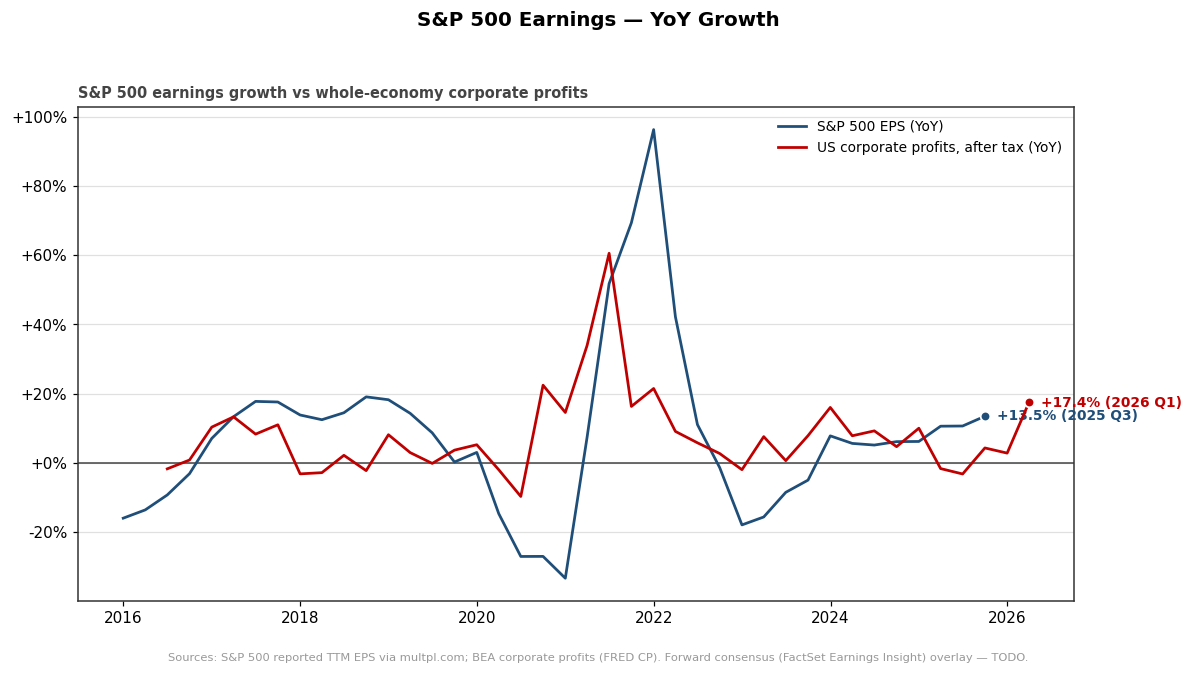
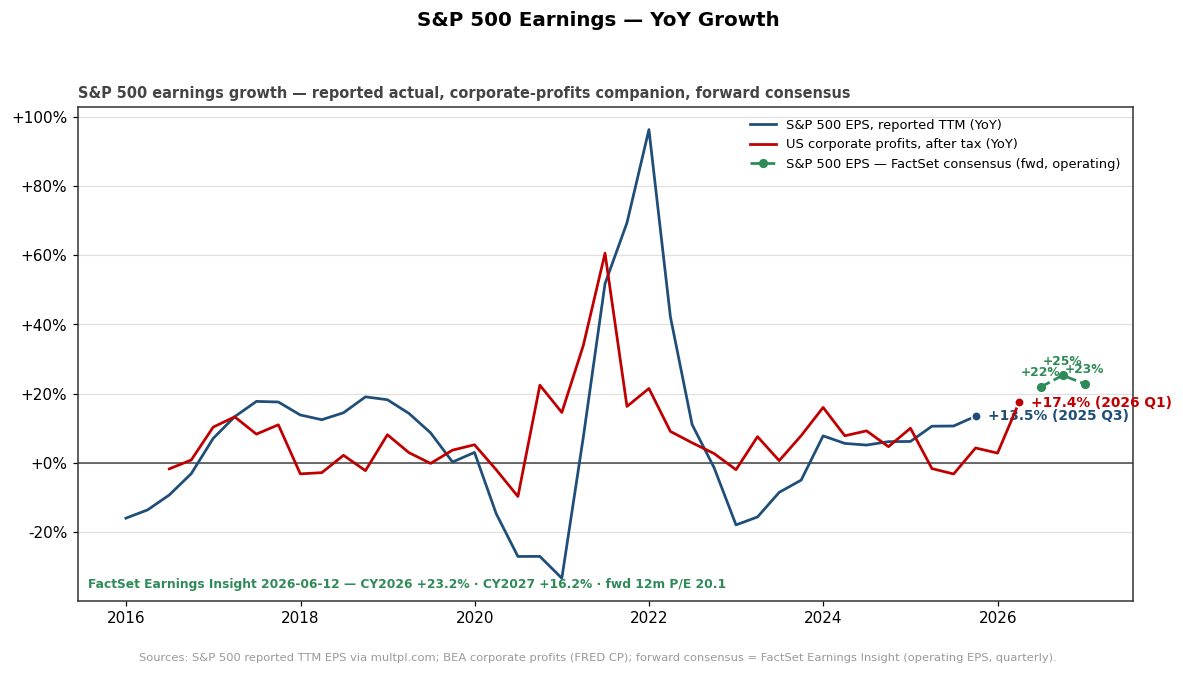
#7 forward overlay: FactSet Earnings Insight consensus on the S&P 500 chart
Completes the deferred forward half of the S&P 500 earnings chart. New
market/factset_forward.py fetches FactSet's public weekly Earnings Insight PDF
(date-patterned URL, tries recent Fridays + the occasional 'A' suffix), parses
the forward (year-over-year) EPS-growth estimates — the in-progress quarter,
the next two quarters, and the CY 2026/2027 figures — plus the forward 12-month
P/E, and caches the result (graceful fallback so a later fetch failure never
blanks the overlay).

The S&P 500 earnings chart now plots the FactSet forward consensus as a distinct
dashed quarterly series (not joined to the reported-TTM actual — different
basis) with a caption carrying CY2026 / CY2027 growth + the forward P/E and the
report date. Verified live on the 2026-06-12 report (Q2 +21.9 / Q3 +25.3 /
Q4 +22.8; CY2026 +23.2; CY2027 +16.2; fwd P/E 20.1).

+6 tests (parser vs FactSet's verbatim phrasings, Friday-URL logic, quarter→ts);
full suite 355 green.

diff --git a/market/factset_forward.py b/market/factset_forward.py
@@ -1,0 +1,140 @@
+"""FactSet Earnings Insight — forward S&P 500 EPS-growth consensus.
+
+FactSet publishes *Earnings Insight* weekly (Fridays) as a **public** PDF at a
+date-patterned URL. This fetches the most recent report, extracts the forward
+(year-over-year) EPS-growth estimates — the in-progress quarter, the next two
+quarters, and the CY estimates — plus the forward 12-month P/E, and caches the
+parsed result so the S&P 500 earnings chart always has a forward overlay even
+if a later fetch fails (graceful fallback to the mirror).
+
+Note the methodology: the chart's *actual* line is S&P 500 reported TTM EPS
+(multpl.com); FactSet's *forward* is bottom-up operating-EPS consensus by
+quarter — a difference the chart caption flags.
+
+(The same report also lands as a weekly email, Insight@factset.com →
+research@jasonpeterson.nyc, but the public PDF avoids needing an attachment
+download and is what the scheduled build uses.)
+"""
+from __future__ import annotations
+
+import io
+import json
+import re
+from datetime import date, timedelta
+from pathlib import Path
+
+import pandas as pd
+import requests
+
+_MIRROR = Path(__file__).parent / "data"
+_CACHE = _MIRROR / "latest" / "factset_forward.json"
+_BASE = (
+    "https://advantage.factset.com/hubfs/Website/Resources%20Section/"
+    "Research%20Desk/Earnings%20Insight/EarningsInsight_{name}.pdf"
+)
+_UA = {"User-Agent": "Mozilla/5.0 (macro_monitor research; jroypeterson@gmail.com)"}
+
+# FactSet's phrasings (stable across recent reports):
+#   "For Q2 2026, the estimated (year-over-year) earnings growth rate for the S&P 500 is 21.9%."
+#   "For Q3 2026 and Q4 2026, analysts are calling for earnings growth rates of 25.3% and 22.8%."
+#   "For CY 2026, analysts are predicting (year-over-year) earnings growth of 23.2%."
+#   "The forward 12-month P/E ratio is 20.1 ..."
+_Q = re.compile(
+    r"For (Q[1-4] 20\d\d), the estimated \(year-over-year\) earnings growth "
+    r"rate for the S&P 500 is (-?[\d.]+)%", re.I)
+_QQ = re.compile(
+    r"For (Q[1-4] 20\d\d) and (Q[1-4] 20\d\d), analysts are calling for "
+    r"earnings growth rates of (-?[\d.]+)% and (-?[\d.]+)%", re.I)
+_CY = re.compile(
+    r"For (CY 20\d\d), analysts are (?:predicting|projecting)"
+    r"(?: \(year-over-year\))? earnings growth of (-?[\d.]+)%", re.I)
+_PE = re.compile(r"forward 12-month P/E ratio is ([\d.]+)", re.I)
+
+
+def recent_fridays(today: date, n: int = 6) -> list[date]:
+    """Most recent Friday on/before `today`, then weekly back (FactSet publishes Fri)."""
+    friday = today - timedelta(days=(today.weekday() - 4) % 7)
+    return [friday - timedelta(weeks=i) for i in range(n)]
+
+
+def _url(d: date, suffix: str = "") -> str:
+    # Some weeks carry a trailing 'A' before .pdf (e.g. EarningsInsight_041026A.pdf).
+    return _BASE.format(name=d.strftime("%m%d%y") + suffix)
+
+
+def fetch_pdf(today: date | None = None) -> tuple[date, bytes]:
+    """Return (report_date, pdf_bytes) for the most recent available report."""
+    today = today or date.today()
+    for d in recent_fridays(today):
+        for suffix in ("", "A"):
+            try:
+                r = requests.get(_url(d, suffix), headers=_UA, timeout=30)
+            except requests.RequestException:
+                continue
+            if r.status_code == 200 and r.content[:4] == b"%PDF":
+                return d, r.content
+    raise RuntimeError("no recent FactSet Earnings Insight PDF found")
+
+
+def parse_forward_text(text: str) -> dict:
+    """Extract {quarters: {'Q2 2026': 21.9, ...}, cy: {'2026': 23.2, ...},
+    forward_pe: 20.1} from the report text. Raises if nothing parses (so a
+    silent format change surfaces instead of writing an empty cache)."""
+    text = re.sub(r"\s+", " ", text)
+    quarters: dict[str, float] = {}
+    for per, val in _Q.findall(text):
+        quarters[per] = float(val)
+    for p1, p2, v1, v2 in _QQ.findall(text):
+        quarters.setdefault(p1, float(v1))
+        quarters.setdefault(p2, float(v2))
+    cy = {per.split()[1]: float(val) for per, val in _CY.findall(text)}
+    pe = _PE.search(text)
+    if not quarters and not cy:
+        raise ValueError("FactSet forward parse found no growth figures — format may have changed")
+    return {"quarters": quarters, "cy": cy, "forward_pe": float(pe.group(1)) if pe else None}
+
+
+def parse_forward(pdf_bytes: bytes) -> dict:
+    """Extract the forward consensus from a FactSet Earnings Insight PDF."""
+    import pdfplumber
+
+    with pdfplumber.open(io.BytesIO(pdf_bytes)) as doc:
+        text = " ".join((p.extract_text() or "") for p in doc.pages)
+    return parse_forward_text(text)
+
+
+def _save(parsed: dict, report_date: date, mirror: Path = _MIRROR) -> None:
+    (mirror / "latest").mkdir(parents=True, exist_ok=True)
+    payload = {**parsed, "report_date": report_date.isoformat()}
+    _CACHE.write_text(json.dumps(payload, indent=2), encoding="utf-8")
+
+
+def load_forward(prefer_live: bool = True, mirror: Path = _MIRROR) -> dict | None:
+    """Forward consensus dict (with report_date), or None if unavailable.
+
+    Live fetch+parse → cache → mirror. Returns None (not raises) when there's no
+    data at all, so the chart can simply skip the overlay rather than fail.
+    """
+    if prefer_live:
+        try:
+            d, pdf = fetch_pdf()
+            parsed = parse_forward(pdf)
+            _save(parsed, d, mirror)
+            return {**parsed, "report_date": d.isoformat()}
+        except Exception as exc:  # noqa: BLE001
+            print(f"[WARN] FactSet forward fetch/parse failed ({exc}); falling back to mirror")
+    if _CACHE.exists():
+        return json.loads(_CACHE.read_text(encoding="utf-8"))
+    return None
+
+
+def quarter_to_ts(qlabel: str) -> pd.Timestamp:
+    """'Q2 2026' -> quarter-end Timestamp (2026-06-30)."""
+    q, y = qlabel.split()
+    return pd.Period(f"{y}Q{int(q[1])}", freq="Q").to_timestamp(how="end").normalize()
+
+
+def forward_quarterly_series(parsed: dict) -> pd.Series:
+    """The forward quarterly YoY% estimates as a dated Series (quarter-end index)."""
+    items = {quarter_to_ts(k): v for k, v in parsed.get("quarters", {}).items()}
+    return pd.Series(items, dtype=float).sort_index()

diff --git a/market/growth_charts.py b/market/growth_charts.py
@@ -22,7 +22,10 @@ from matplotlib.ticker import MaxNLocator  # noqa: E402
 
 from ..charts.style import COLOR_PRIMARY, COLOR_SECONDARY, DEFAULT_DPI, DEFAULT_FIGSIZE  # noqa: E402
 from ..collectors.fred import FREDClient  # noqa: E402
+from . import factset_forward as FF  # noqa: E402
 from . import macro_growth as G  # noqa: E402
+
+_FWD = "#2E8B57"  # forward-consensus green
 
 _OUT = Path(__file__).parent.parent / "readable" / "market"
 _TRAILING_QUARTERS = 12  # JP #31: trailing 3 years, quarterly
@@ -70,11 +73,13 @@ def render_growth_bar(
 
 def render_sp500_earnings(
     eps_yoy: pd.Series, profits_yoy: pd.Series, out: Path, years: int = 10,
+    forward: dict | None = None,
 ) -> Path:
-    """S&P 500 EPS YoY + whole-economy corporate-profits YoY, last `years`."""
+    """S&P 500 EPS YoY + whole-economy corporate-profits YoY (last `years`),
+    plus the FactSet forward-consensus quarterly EPS-growth overlay if provided."""
     fig, ax = plt.subplots(figsize=DEFAULT_FIGSIZE, dpi=DEFAULT_DPI)
     for s, lab, color in (
-        (eps_yoy, "S&P 500 EPS (YoY)", COLOR_PRIMARY),
+        (eps_yoy, "S&P 500 EPS, reported TTM (YoY)", COLOR_PRIMARY),
         (profits_yoy, "US corporate profits, after tax (YoY)", COLOR_SECONDARY),
     ):
         s = s.dropna().iloc[-years * 4:]
@@ -85,15 +90,42 @@ def render_sp500_earnings(
         ax.annotate(f"{s.iloc[-1]:+.1f}% ({_q_label(last)})",
                     (last, s.iloc[-1]), xytext=(8, 0), textcoords="offset points",
                     fontsize=9, color=color, weight="bold", va="center")
+
+    # Forward consensus overlay (FactSet Earnings Insight). Plotted as a distinct
+    # dashed series — it's bottom-up *operating*-EPS consensus by quarter, a
+    # different basis than the reported-TTM actual, so it isn't joined to it.
+    if forward:
+        fwd = FF.forward_quarterly_series(forward)
+        if not fwd.empty:
+            ax.plot(fwd.index, fwd.values, color=_FWD, lw=1.8, ls="--", marker="o",
+                    ms=5, zorder=4, label="S&P 500 EPS — FactSet consensus (fwd, operating)")
+            for ts, v in fwd.items():
+                ax.annotate(f"{v:+.0f}%", (ts, v), textcoords="offset points",
+                            xytext=(0, 7), ha="center", fontsize=8, color=_FWD, weight="bold")
+            cy = forward.get("cy", {})
+            pe = forward.get("forward_pe")
+            bits = []
+            if cy.get("2026") is not None:
+                bits.append(f"CY2026 {cy['2026']:+.1f}%")
+            if cy.get("2027") is not None:
+                bits.append(f"CY2027 {cy['2027']:+.1f}%")
+            if pe:
+                bits.append(f"fwd 12m P/E {pe:.1f}")
+            cap = "FactSet Earnings Insight " + forward.get("report_date", "")
+            if bits:
+                cap += " — " + " · ".join(bits)
+            ax.text(0.01, 0.02, cap, transform=ax.transAxes, fontsize=8,
+                    color=_FWD, va="bottom", weight="bold")
+
     ax.axhline(0, color="#444444", lw=1, zorder=2)
     ax.yaxis.set_major_formatter(plt.FuncFormatter(lambda v, _: f"{v:+.0f}%"))
-    ax.set_title("S&P 500 earnings growth vs whole-economy corporate profits",
+    ax.set_title("S&P 500 earnings growth — reported actual, corporate-profits companion, forward consensus",
                  fontsize=9.5, color="#444444", loc="left")
     fig.suptitle("S&P 500 Earnings — YoY Growth", fontsize=13, fontweight="bold", x=0.5, y=0.99)
-    ax.legend(loc="best", fontsize=9)
+    ax.legend(loc="best", fontsize=8.5)
     fig.text(0.5, 0.005,
              "Sources: S&P 500 reported TTM EPS via multpl.com; BEA corporate profits "
-             "(FRED CP). Forward consensus (FactSet Earnings Insight) overlay — TODO.",
+             "(FRED CP); forward consensus = FactSet Earnings Insight (operating EPS, quarterly).",
              ha="center", fontsize=7.5, color="#999999")
     fig.tight_layout(rect=[0, 0.03, 1, 0.96])
     out.parent.mkdir(parents=True, exist_ok=True)
@@ -118,12 +150,14 @@ def build_growth_page(
                                  out_dir / f"growth_{spec.key}.png")
         rendered[spec.key] = dict(title=spec.label, source=spec.source, path=path)
 
-    # #7 — S&P 500 earnings YoY + corporate-profits companion.
+    # #7 — S&P 500 earnings YoY + corporate-profits companion + FactSet forward.
     if "sp500_eps" in series:
         try:
             cp = G.yoy_pct(G.to_quarterly(client.get_observations(G.CORPORATE_PROFITS.fred_id)))
+            forward = FF.load_forward(prefer_live=prefer_live)
             path = render_sp500_earnings(series["sp500_eps"], cp,
-                                         out_dir / "growth_sp500_earnings.png")
+                                         out_dir / "growth_sp500_earnings.png",
+                                         forward=forward)
             rendered["sp500_earnings"] = dict(
                 title="S&P 500 Earnings — YoY Growth (+ corporate profits)",
                 source="S&P 500 (multpl.com) + BEA", path=path)

diff --git a/tests/test_factset_forward.py b/tests/test_factset_forward.py
@@ -1,0 +1,64 @@
+"""Tests for the FactSet Earnings Insight forward-consensus parser.
+
+Locks the regex extraction against FactSet's actual report phrasings, the
+Friday-URL date logic, and the quarter→timestamp mapping. No network/PDF I/O.
+"""
+
+from __future__ import annotations
+
+from datetime import date
+
+import pandas as pd
+import pytest
+
+from macro_monitor.market import factset_forward as FF
+
+# Verbatim phrasings from the 2026-06-12 Earnings Insight.
+_SAMPLE = (
+    "Earnings Growth: For Q2 2026, the estimated (year-over-year) earnings growth "
+    "rate for the S&P 500 is 21.9%. ... Looking ahead, For Q3 2026 and Q4 2026, "
+    "analysts are calling for earnings growth rates of 25.3% and 22.8%. For CY 2026, "
+    "analysts are predicting (year-over-year) earnings growth of 23.2%. For CY 2027, "
+    "analysts are projecting earnings growth of 16.2% and revenue growth of 7.6%. "
+    "The forward 12-month P/E ratio is 20.1 (based on Wednesday's closing price)."
+)
+
+
+def test_parse_forward_text_extracts_quarters_cy_and_pe():
+    out = FF.parse_forward_text(_SAMPLE)
+    assert out["quarters"] == {"Q2 2026": 21.9, "Q3 2026": 25.3, "Q4 2026": 22.8}
+    assert out["cy"] == {"2026": 23.2, "2027": 16.2}
+    assert out["forward_pe"] == 20.1
+
+
+def test_parse_forward_text_handles_line_wrapped_whitespace():
+    # Real PDF text comes with newlines/double spaces mid-sentence.
+    wrapped = _SAMPLE.replace(". ", ".\n  ").replace(", ", ",\n")
+    out = FF.parse_forward_text(wrapped)
+    assert out["quarters"]["Q3 2026"] == 25.3
+    assert out["cy"]["2026"] == 23.2
+
+
+def test_parse_forward_text_raises_on_format_change():
+    with pytest.raises(ValueError):
+        FF.parse_forward_text("Some unrelated report text with no growth figures.")
+
+
+def test_recent_fridays_most_recent_first():
+    # 2026-06-19 is a Friday → it's first, then weekly back.
+    fr = FF.recent_fridays(date(2026, 6, 19), n=3)
+    assert fr == [date(2026, 6, 19), date(2026, 6, 12), date(2026, 6, 5)]
+    assert all(d.weekday() == 4 for d in fr)
+
+
+def test_recent_fridays_from_midweek_walks_back_to_prior_friday():
+    # Wednesday 2026-06-17 → most recent Friday is 2026-06-12.
+    assert FF.recent_fridays(date(2026, 6, 17), n=1) == [date(2026, 6, 12)]
+
+
+def test_quarter_to_ts_and_series():
+    assert FF.quarter_to_ts("Q2 2026") == pd.Timestamp("2026-06-30")
+    s = FF.forward_quarterly_series({"quarters": {"Q4 2026": 22.8, "Q2 2026": 21.9}})
+    # sorted ascending by quarter-end date
+    assert list(s.index) == [pd.Timestamp("2026-06-30"), pd.Timestamp("2026-12-31")]
+    assert list(s.values) == [21.9, 22.8]
